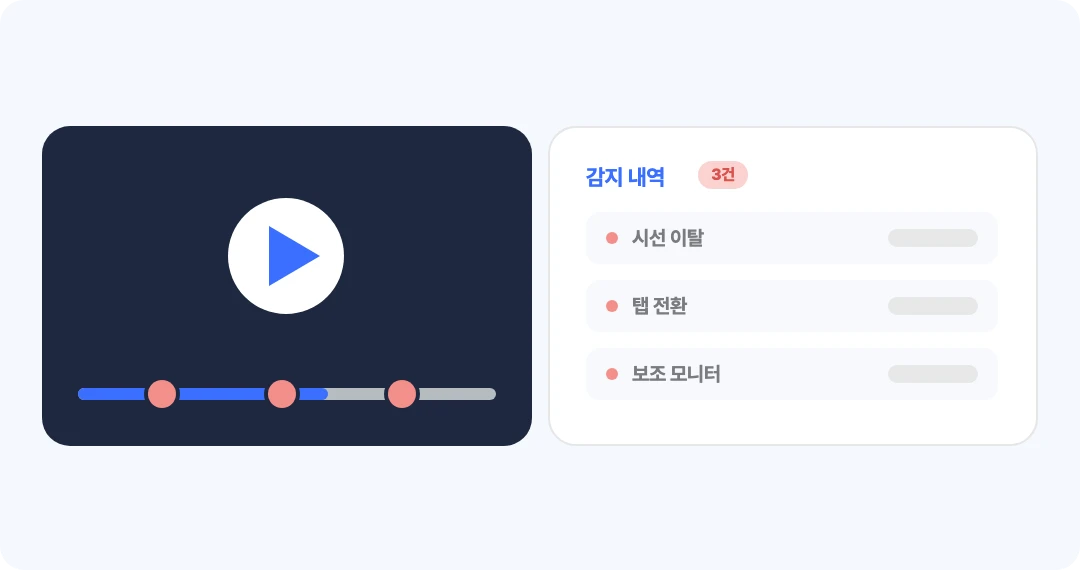
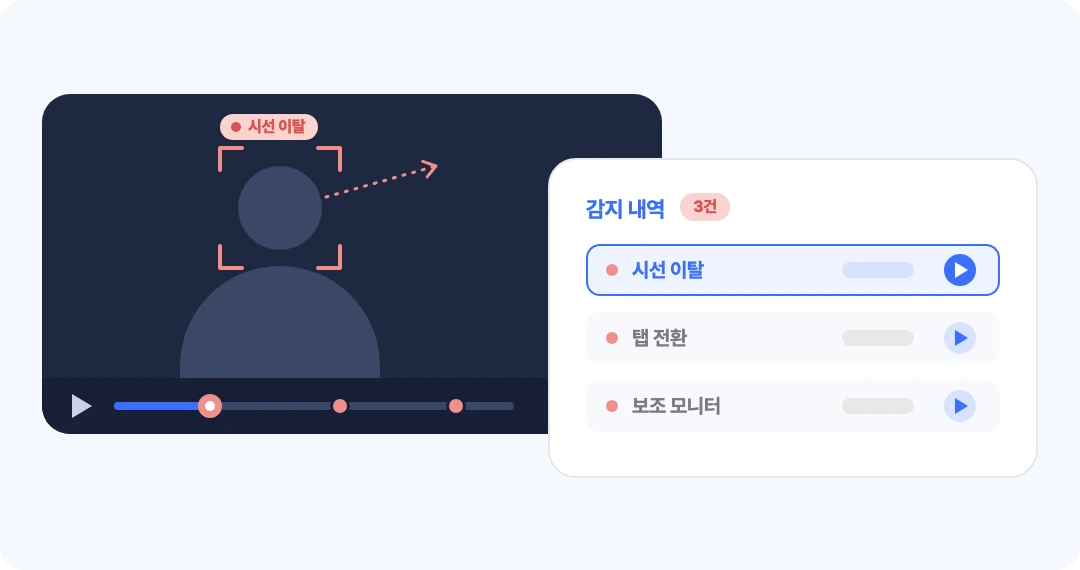
홈 도식 ②③ 교체: AI 역량검사는 개발 화면, 부정행위 감지는 모니터링 화면
- diagram-task.webp: 사람 영상 대신 개발 화면(파일 목록, AI가 바꾼 코드 두 줄,
  테스트 통과, AI 어시스턴트 대화). 홈 제품 카드에서 AI 면접 도식과 한눈에 구분되게.
- diagram-integrity.webp: 지원자 영상(얼굴 감지 상자, 시선 방향, 감지 지점 타임라인)
  위에 감지 내역 카드를 겹친 모니터링 화면. 실제 감지 항목만 그림.
- 두 이미지의 alt 문구를 새 그림에 맞게 수정.
- tsconfig: _docs 폴더를 타입 체크에서 제외. 문서 폴더의 참고용 .tsx가
  없는 모듈을 import해서 로컬 빌드가 실패했음(앱 코드와 무관).

diff --git a/components/IntegritySection.tsx b/components/IntegritySection.tsx
@@ -35,7 +35,7 @@ export default function IntegritySection({ withLink = false }: { withLink?: bool
               )}
             </div>
             <div className="hr-media">
-              <img className="hr-img" src="/diagram-integrity.webp" alt="부정행위 감지 도식: 영상의 감지 지점과 감지 내역" width={1080} height={570} loading="lazy" />
+              <img className="hr-img" src="/diagram-integrity.webp" alt="부정행위 감지 도식: 지원자 영상의 시선 이탈 감지 표시와 감지 내역 목록" width={1080} height={570} loading="lazy" />
             </div>
           </div>
         </div>

diff --git a/app/page.tsx b/app/page.tsx
@@ -22,7 +22,7 @@ const PRODUCT_CARDS: Record<string, { img: string; alt: string; points: string[]
   },
   "/ai-assessment": {
     img: "/diagram-task.webp",
-    alt: "AI 역량검사 도식: 과제 코드와 AI 어시스턴트 대화",
+    alt: "AI 역량검사 도식: 개발 화면의 과제 코드·테스트 통과와 AI 어시스턴트 대화",
     points: ["AI 개발 과제 · AI 업무 과제 · 코딩 테스트", "AI 활용 과정과 결과 검증까지 채점", "제출 뒤 AI 인터뷰로 이해도 확인"],
   },
 };
